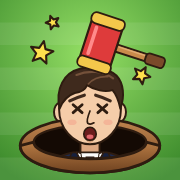
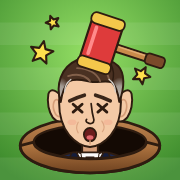
Redraw Macron's caricature to look more like him
Protruding ears, dark hair swept back with a side part and grey
temples, a high forehead, thick straight eyebrows over bigger, intense
blue eyes, a long straight nose, a narrow V-shaped face with a cleft
chin and a thin-lipped smile. Regenerate the app icons (they feature
Macron) and bump the service worker cache so installed copies update.

Claude-Session: https://claude.ai/code/session_01KyC5swbe97JkFYfGyRhXkp

Changed region(s): [[0.25, 0.3333, 0.75, 0.8611], [0.5556, 0.6667, 0.5833, 0.7222]]

diff --git a/js/art.js b/js/art.js
@@ -79,24 +79,57 @@ const flagUS = (x, y) => `<g transform="translate(${x} ${y})">
 /* ---------- Macron ---------- */
 
 function macron(expr) {
-  const skin = '#f5cda9', shade = '#dda882', hair = '#3f2a1d', hairHi = '#74513a';
+  const skin = '#f4caa6', shade = '#d69f7a', hair = '#4a3122', hairHi = '#82604a', brow = '#3a2619';
   const hit = expr === 'hit';
+  // Long face with a narrow, V-shaped jaw.
+  const face = 'M100 31 C134 31 155 54 155 90 C155 116 149 134 137 149 C127 161 114 169 100 170 C86 169 73 161 63 149 C51 134 45 116 45 90 C45 54 66 31 100 31 Z';
+  // Big, protruding ears.
+  const earL = 'M50 84 C43 69 29 64 26 76 C23 91 27 108 34 118 C39 124 45 126 51 124 Z';
+  const earR = 'M150 84 C157 69 171 64 174 76 C177 91 173 108 166 118 C161 124 155 126 149 124 Z';
+  // Thick, straight eyebrows that drop at the outer end.
+  const browL = 'M58 87 C66 78 80 75 94 78 C95 81 95 84 94 86 C82 84 71 86 61 92 C58 91 57 89 58 87 Z';
+  const browR = 'M142 87 C134 78 120 75 106 78 C105 81 105 84 106 86 C118 84 129 86 139 92 C142 91 143 89 142 87 Z';
+  // Voluminous hair swept back, parted on the side, grey at the temples.
+  const hairPath = 'M48 90 C38 60 48 28 78 15 C101 6 132 9 150 26 C162 39 162 64 152 90 C150 74 146 62 139 55 C128 51 114 56 102 54 C90 52 76 47 63 53 C55 61 50 75 48 90 Z';
+  const eye = (cx, dir) => `
+    <ellipse cx="${cx}" cy="101" rx="12" ry="8.6" fill="#fff" stroke="${OL}" stroke-width="2.2"/>
+    <circle cx="${cx + dir}" cy="101.8" r="6.6" fill="#2b8af0" stroke="#164a95" stroke-width="1.4"/>
+    <circle cx="${cx + dir}" cy="101.8" r="2.9" fill="#0d0d0d"/>
+    <circle cx="${cx + dir + 2.4}" cy="99.2" r="2" fill="#fff"/>
+    <path d="M${cx - 13} 99.5 C${cx - 8} 91 ${cx + 8} 91 ${cx + 13} 98.5" fill="none" stroke="${OL}" stroke-width="3.8" stroke-linecap="round"/>
+    <path d="M${cx - 7} 111.5 Q${cx} 113.5 ${cx + 7} 111.5" fill="none" stroke="${shade}" stroke-width="1.5" stroke-linecap="round" opacity="0.8"/>`;
   return svg(`
-    ${neck(shade)}
-    ${suit('#1e2a4e', '#16203e', '#2d4386', flagFR(126, 200))}
-    ${ears(skin, shade, 46, 154, 108, 10, 16)}
-    <ellipse cx="100" cy="102" rx="55" ry="63" fill="${skin}" stroke="${OL}" stroke-width="${SW}"/>
-    <path d="M46 102 C38 66 54 38 82 31 C104 25 132 29 147 43 C160 57 162 80 154 102 C151 88 147 77 140 69 C126 73 108 69 95 60 C91 69 83 73 73 74 C61 78 51 89 46 102 Z"
-      fill="${hair}" stroke="${OL}" stroke-width="${SW}" stroke-linejoin="round"/>
-    <path d="M76 42 C97 33 124 35 141 48" fill="none" stroke="${hairHi}" stroke-width="4" stroke-linecap="round"/>
-    <path d="M97 58 C105 49 118 44 132 45" fill="none" stroke="${hairHi}" stroke-width="3" stroke-linecap="round"/>
-    ${hit ? browsWorried(hair) : `<path d="M64 87 Q77 78 90 84 M110 84 Q123 78 136 87" stroke="${hair}" stroke-width="5.5" fill="none" stroke-linecap="round"/>`}
-    ${hit ? eyesHit() : eyesIdle('#3a7cc8')}
-    <path d="M100 106 Q93 123 96 128 Q101 131 107 127" fill="none" stroke="${OL}" stroke-width="3" stroke-linecap="round" stroke-linejoin="round"/>
-    ${hit ? mouthHit(147) : `<path d="M83 141 Q101 152 118 139" fill="none" stroke="${OL}" stroke-width="3.5" stroke-linecap="round"/>
-      <path d="M117 140 L121.5 135.5" stroke="${OL}" stroke-width="3" stroke-linecap="round"/>`}
-    <path d="M96 160 Q100 163 104 160" fill="none" stroke="${shade}" stroke-width="2.5" stroke-linecap="round"/>
-    ${cheeks()}
+    <defs>
+      <clipPath id="mhc"><path d="${hairPath}"/></clipPath>
+      <radialGradient id="mgrey">
+        <stop offset="0" stop-color="#b9b3ac"/><stop offset="0.55" stop-color="#a39b93"/><stop offset="1" stop-color="#a39b93" stop-opacity="0"/>
+      </radialGradient>
+    </defs>
+    <path d="M86 146 L86 188 L114 188 L114 146 Z" fill="${shade}" stroke="${OL}" stroke-width="${SW}"/>
+    ${suit('#1c2850', '#141d3c', '#1f2f63', flagFR(126, 200))}
+    <path d="${earL}" fill="${skin}" stroke="${OL}" stroke-width="${SW}" stroke-linejoin="round"/>
+    <path d="${earR}" fill="${skin}" stroke="${OL}" stroke-width="${SW}" stroke-linejoin="round"/>
+    <path d="M45 88 C36 80 32 96 37 108 C39 113 43 116 46 116 M155 88 C164 80 168 96 163 108 C161 113 157 116 154 116" fill="none" stroke="${shade}" stroke-width="3" stroke-linecap="round"/>
+    <path d="${face}" fill="${skin}" stroke="${OL}" stroke-width="${SW}"/>
+    <g clip-path="url(#mhc)">
+      <rect x="30" y="0" width="140" height="100" fill="${hair}"/>
+      <ellipse cx="47" cy="80" rx="20" ry="34" fill="url(#mgrey)"/>
+      <ellipse cx="153" cy="80" rx="20" ry="34" fill="url(#mgrey)"/>
+    </g>
+    <path d="${hairPath}" fill="none" stroke="${OL}" stroke-width="${SW}" stroke-linejoin="round"/>
+    <path d="M137 22 C142 32 143 43 140 54" fill="none" stroke="#2c1b10" stroke-width="2.6" stroke-linecap="round"/>
+    <path d="M134 50 C130 34 118 24 98 22 M118 53 C112 39 98 31 77 30 M100 53 C92 43 78 39 61 44" fill="none" stroke="${hairHi}" stroke-width="3.2" stroke-linecap="round"/>
+    <path d="M55 72 C55 62 59 55 66 50 M145 72 C145 62 141 55 134 50" fill="none" stroke="#d4cfc9" stroke-width="2.2" stroke-linecap="round"/>
+    ${hit ? browsWorried(brow, 84, 6.5) : `<path d="${browL}" fill="${brow}"/><path d="${browR}" fill="${brow}"/>`}
+    ${hit ? eyesHit(101) : eye(78, 1) + eye(122, -1)}
+    <path d="M102 93 C103 104 105 115 107 122 C107 128 101 130 96 127 C93 126 92 123 94 121" fill="none" stroke="${OL}" stroke-width="3" stroke-linecap="round" stroke-linejoin="round"/>
+    <path d="M79 126 C75 133 76 140 79 145 M121 124 C126 131 126 138 122 143" fill="none" stroke="${shade}" stroke-width="2" stroke-linecap="round" opacity="0.85"/>
+    ${hit ? mouthHit(148) : `
+      <path d="M80 142 C89 148 111 148 121 139" fill="none" stroke="${OL}" stroke-width="3.4" stroke-linecap="round"/>
+      <path d="M80 142 L76.5 140 M121 139 L124 135" stroke="${OL}" stroke-width="2.8" stroke-linecap="round"/>
+      <path d="M92 152 Q101 155 110 151" fill="none" stroke="${shade}" stroke-width="2.2" stroke-linecap="round"/>`}
+    <path d="M100 159 L100 165" stroke="${shade}" stroke-width="2.5" stroke-linecap="round"/>
+    ${cheeks(0.2)}
   `);
 }
 

diff --git a/sw.js b/sw.js
@@ -1,6 +1,6 @@
 // Service worker: makes the game load instantly and work offline.
 // Bump VERSION whenever a file of the game changes, so players get the update.
-const VERSION = 'smash-v1';
+const VERSION = 'smash-v2';
 const ASSETS = [
   './',
   './index.html',
